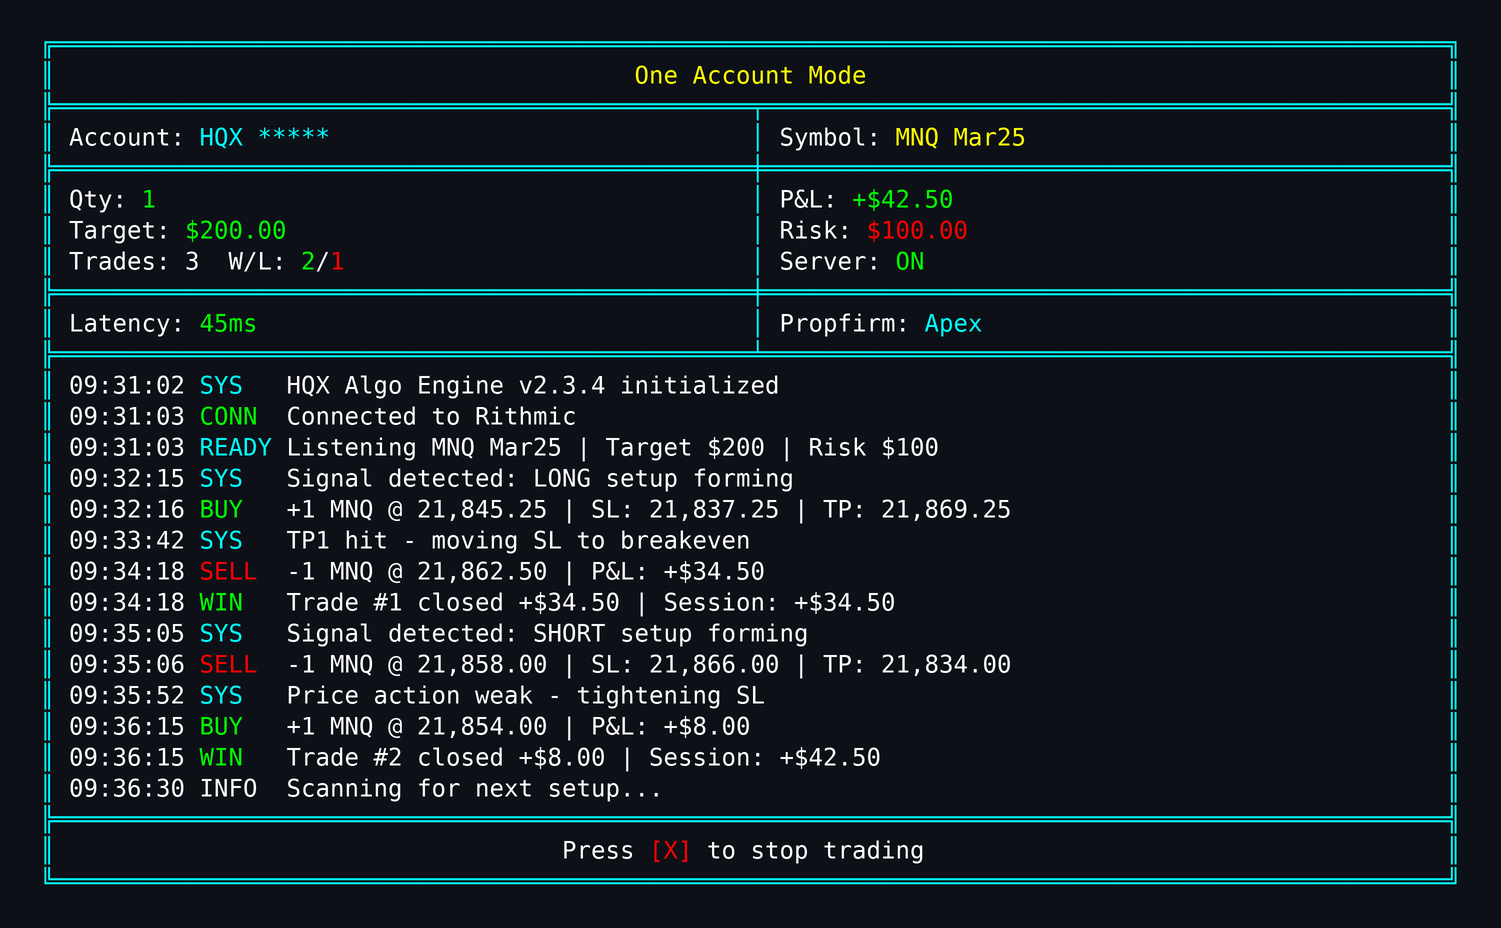
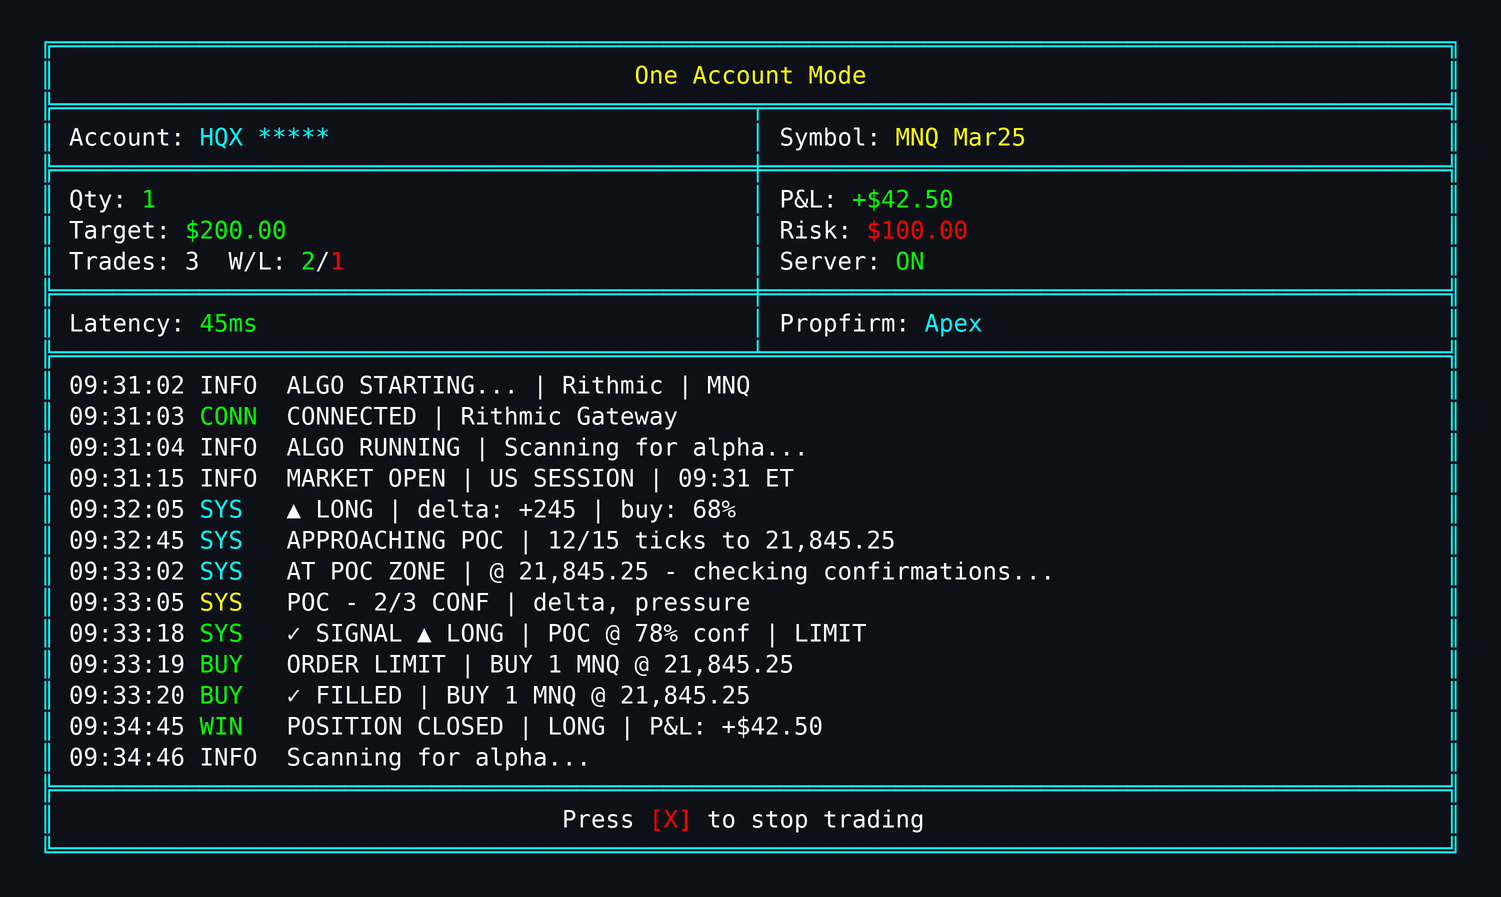
feat: use real HQX smart logs from hqx_tg strategy

Changed region(s): [[0.0306, 0.0312, 0.9807, 0.9677], [0.5823, 0.6867, 0.6742, 0.7492], [0.5516, 0.5307, 0.6742, 0.5619]]

diff --git a/assets/generate-images.py b/assets/generate-images.py
@@ -302,20 +302,19 @@ def gen_algo():
         full_border("╠", "╣", "╪"),
         two_col_line([(" Latency: ", WHITE), ("45ms", GREEN)], [(" Propfirm: ", WHITE), ("Apex", CYAN)]),
         full_border("╠", "╣", "╧"),
-        smart_log("09:31:02", "SYS  ", CYAN, "HQX Algo Engine v2.3.4 initialized"),
-        smart_log("09:31:03", "CONN ", GREEN, "Connected to Rithmic"),
-        smart_log("09:31:03", "READY", CYAN, "Listening MNQ Mar25 | Target $200 | Risk $100"),
-        smart_log("09:32:15", "SYS  ", CYAN, "Signal detected: LONG setup forming"),
-        smart_log("09:32:16", "BUY  ", GREEN, "+1 MNQ @ 21,845.25 | SL: 21,837.25 | TP: 21,869.25"),
-        smart_log("09:33:42", "SYS  ", CYAN, "TP1 hit - moving SL to breakeven"),
-        smart_log("09:34:18", "SELL ", RED, "-1 MNQ @ 21,862.50 | P&L: +$34.50"),
-        smart_log("09:34:18", "WIN  ", GREEN, "Trade #1 closed +$34.50 | Session: +$34.50"),
-        smart_log("09:35:05", "SYS  ", CYAN, "Signal detected: SHORT setup forming"),
-        smart_log("09:35:06", "SELL ", RED, "-1 MNQ @ 21,858.00 | SL: 21,866.00 | TP: 21,834.00"),
-        smart_log("09:35:52", "SYS  ", CYAN, "Price action weak - tightening SL"),
-        smart_log("09:36:15", "BUY  ", GREEN, "+1 MNQ @ 21,854.00 | P&L: +$8.00"),
-        smart_log("09:36:15", "WIN  ", GREEN, "Trade #2 closed +$8.00 | Session: +$42.50"),
-        smart_log("09:36:30", "INFO ", WHITE, "Scanning for next setup..."),
+        smart_log("09:31:02", "INFO ", WHITE, "ALGO STARTING... | Rithmic | MNQ"),
+        smart_log("09:31:03", "CONN ", GREEN, "CONNECTED | Rithmic Gateway"),
+        smart_log("09:31:04", "INFO ", WHITE, "ALGO RUNNING | Scanning for alpha..."),
+        smart_log("09:31:15", "INFO ", WHITE, "MARKET OPEN | US SESSION | 09:31 ET"),
+        smart_log("09:32:05", "SYS  ", CYAN, "▲ LONG | delta: +245 | buy: 68%"),
+        smart_log("09:32:45", "SYS  ", CYAN, "APPROACHING POC | 12/15 ticks to 21,845.25"),
+        smart_log("09:33:02", "SYS  ", CYAN, "AT POC ZONE | @ 21,845.25 - checking confirmations..."),
+        smart_log("09:33:05", "SYS  ", YELLOW, "POC - 2/3 CONF | delta, pressure"),
+        smart_log("09:33:18", "SYS  ", GREEN, "✓ SIGNAL ▲ LONG | POC @ 78% conf | LIMIT"),
+        smart_log("09:33:19", "BUY  ", GREEN, "ORDER LIMIT | BUY 1 MNQ @ 21,845.25"),
+        smart_log("09:33:20", "BUY  ", GREEN, "✓ FILLED | BUY 1 MNQ @ 21,845.25"),
+        smart_log("09:34:45", "WIN  ", GREEN, "POSITION CLOSED | LONG | P&L: +$42.50"),
+        smart_log("09:34:46", "INFO ", WHITE, "Scanning for alpha..."),
         full_border("╠", "╣"),
         center_line([("Press ", WHITE), ("[X]", RED), (" to stop trading", WHITE)]),
         full_border("╚", "╝"),
@@ -396,21 +395,21 @@ def gen_copy():
         full_border("╠", "╣", "╪"),
         two_col_line([(" Trades: ", WHITE), ("2", WHITE), ("  W/L: ", WHITE), ("2", GREEN), ("/", WHITE), ("0", RED)], [(" Latency: ", WHITE), ("38ms", GREEN)]),
         full_border("╠", "╣", "╧"),
-        smart_log("09:31:02", "SYS  ", CYAN, "Copy Trading Engine initialized"),
-        smart_log("09:31:03", "CONN ", GREEN, "Lead connected: Apex"),
-        smart_log("09:31:03", "CONN ", GREEN, "Follower connected: TopStep"),
-        smart_log("09:31:04", "READY", CYAN, "Watching MNQ Mar25 | Target $400 | Risk $200"),
-        smart_log("09:32:15", "BUY  ", GREEN, "Lead: +1 MNQ @ 21,845.25"),
-        smart_log("09:32:15", "BUY  ", GREEN, "Follower: Copied +1 MNQ @ 21,845.50 (0.25 slip)"),
-        smart_log("09:33:42", "SELL ", RED, "Lead: -1 MNQ @ 21,860.50"),
-        smart_log("09:33:42", "SELL ", RED, "Follower: Copied -1 MNQ @ 21,860.25 (0.25 slip)"),
-        smart_log("09:33:42", "WIN  ", GREEN, "Trade #1 | Lead: +$30.50 | Follower: +$29.50"),
-        smart_log("09:34:55", "BUY  ", GREEN, "Lead: +1 MNQ @ 21,855.00"),
-        smart_log("09:34:55", "BUY  ", GREEN, "Follower: Copied +1 MNQ @ 21,855.00 (no slip)"),
-        smart_log("09:35:38", "SELL ", RED, "Lead: -1 MNQ @ 21,871.50"),
-        smart_log("09:35:38", "SELL ", RED, "Follower: Copied -1 MNQ @ 21,871.25 (0.25 slip)"),
-        smart_log("09:35:38", "WIN  ", GREEN, "Trade #2 | Lead: +$33.00 | Follower: +$32.50"),
-        smart_log("09:35:50", "INFO ", WHITE, "Session P&L: +$63.50 / +$62.00 | Waiting..."),
+        smart_log("09:31:02", "INFO ", WHITE, "COPY TRADING STARTING..."),
+        smart_log("09:31:03", "CONN ", GREEN, "CONNECTED | Lead: Apex"),
+        smart_log("09:31:03", "CONN ", GREEN, "CONNECTED | Follower: TopStep"),
+        smart_log("09:31:04", "INFO ", WHITE, "COPY READY | MNQ Mar25 | Ratio 1:1"),
+        smart_log("09:32:15", "SYS  ", CYAN, "▲ LONG | Lead buying..."),
+        smart_log("09:32:16", "BUY  ", GREEN, "LEAD ✓ FILLED | BUY 1 MNQ @ 21,845.25"),
+        smart_log("09:32:16", "BUY  ", GREEN, "COPY ✓ FILLED | BUY 1 MNQ @ 21,845.50 | slip: 0.25"),
+        smart_log("09:33:42", "SYS  ", CYAN, "▼ SHORT | Lead closing..."),
+        smart_log("09:33:42", "SELL ", RED, "LEAD ✓ FILLED | SELL 1 MNQ @ 21,860.50"),
+        smart_log("09:33:42", "SELL ", RED, "COPY ✓ FILLED | SELL 1 MNQ @ 21,860.25 | slip: 0.25"),
+        smart_log("09:33:43", "WIN  ", GREEN, "POSITION CLOSED | Lead: +$30.50 | Copy: +$29.50"),
+        smart_log("09:34:55", "BUY  ", GREEN, "LEAD ✓ FILLED | BUY 1 MNQ @ 21,855.00"),
+        smart_log("09:34:55", "BUY  ", GREEN, "COPY ✓ FILLED | BUY 1 MNQ @ 21,855.00 | no slip"),
+        smart_log("09:35:38", "WIN  ", GREEN, "POSITION CLOSED | Lead: +$33.00 | Copy: +$32.50"),
+        smart_log("09:35:50", "INFO ", WHITE, "Awaiting lead signal..."),
         full_border("╠", "╣"),
         center_line([("Press ", WHITE), ("[X]", RED), (" to stop trading", WHITE)]),
         full_border("╚", "╝"),
